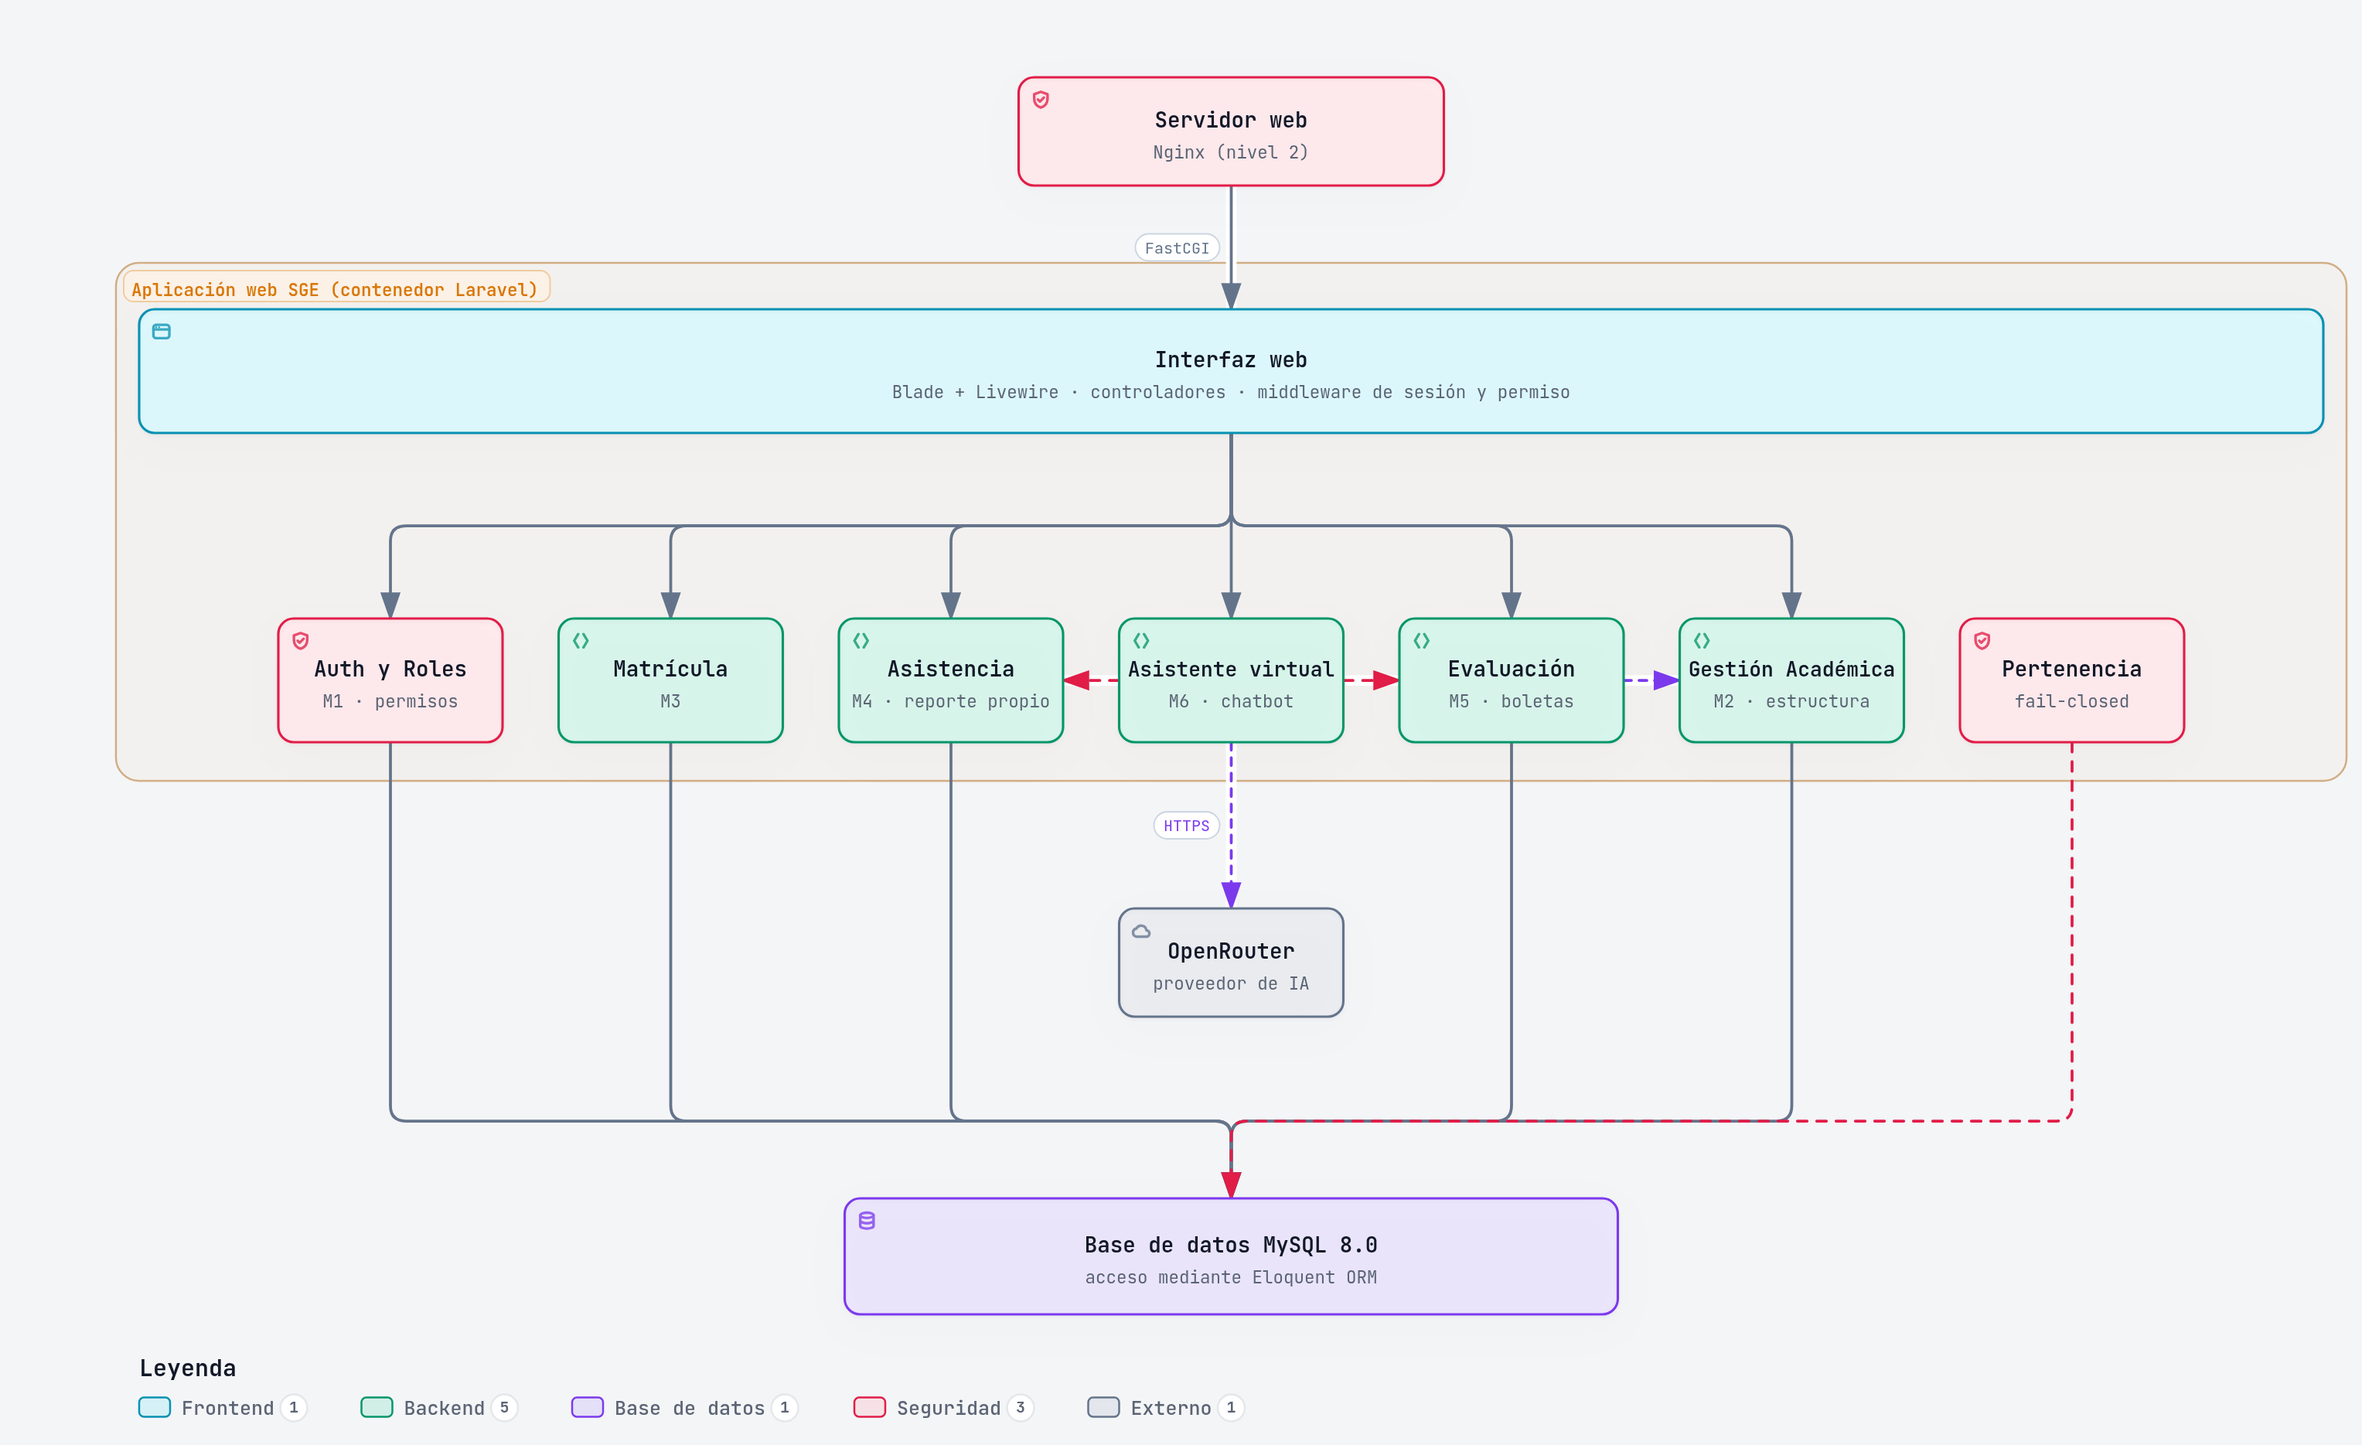
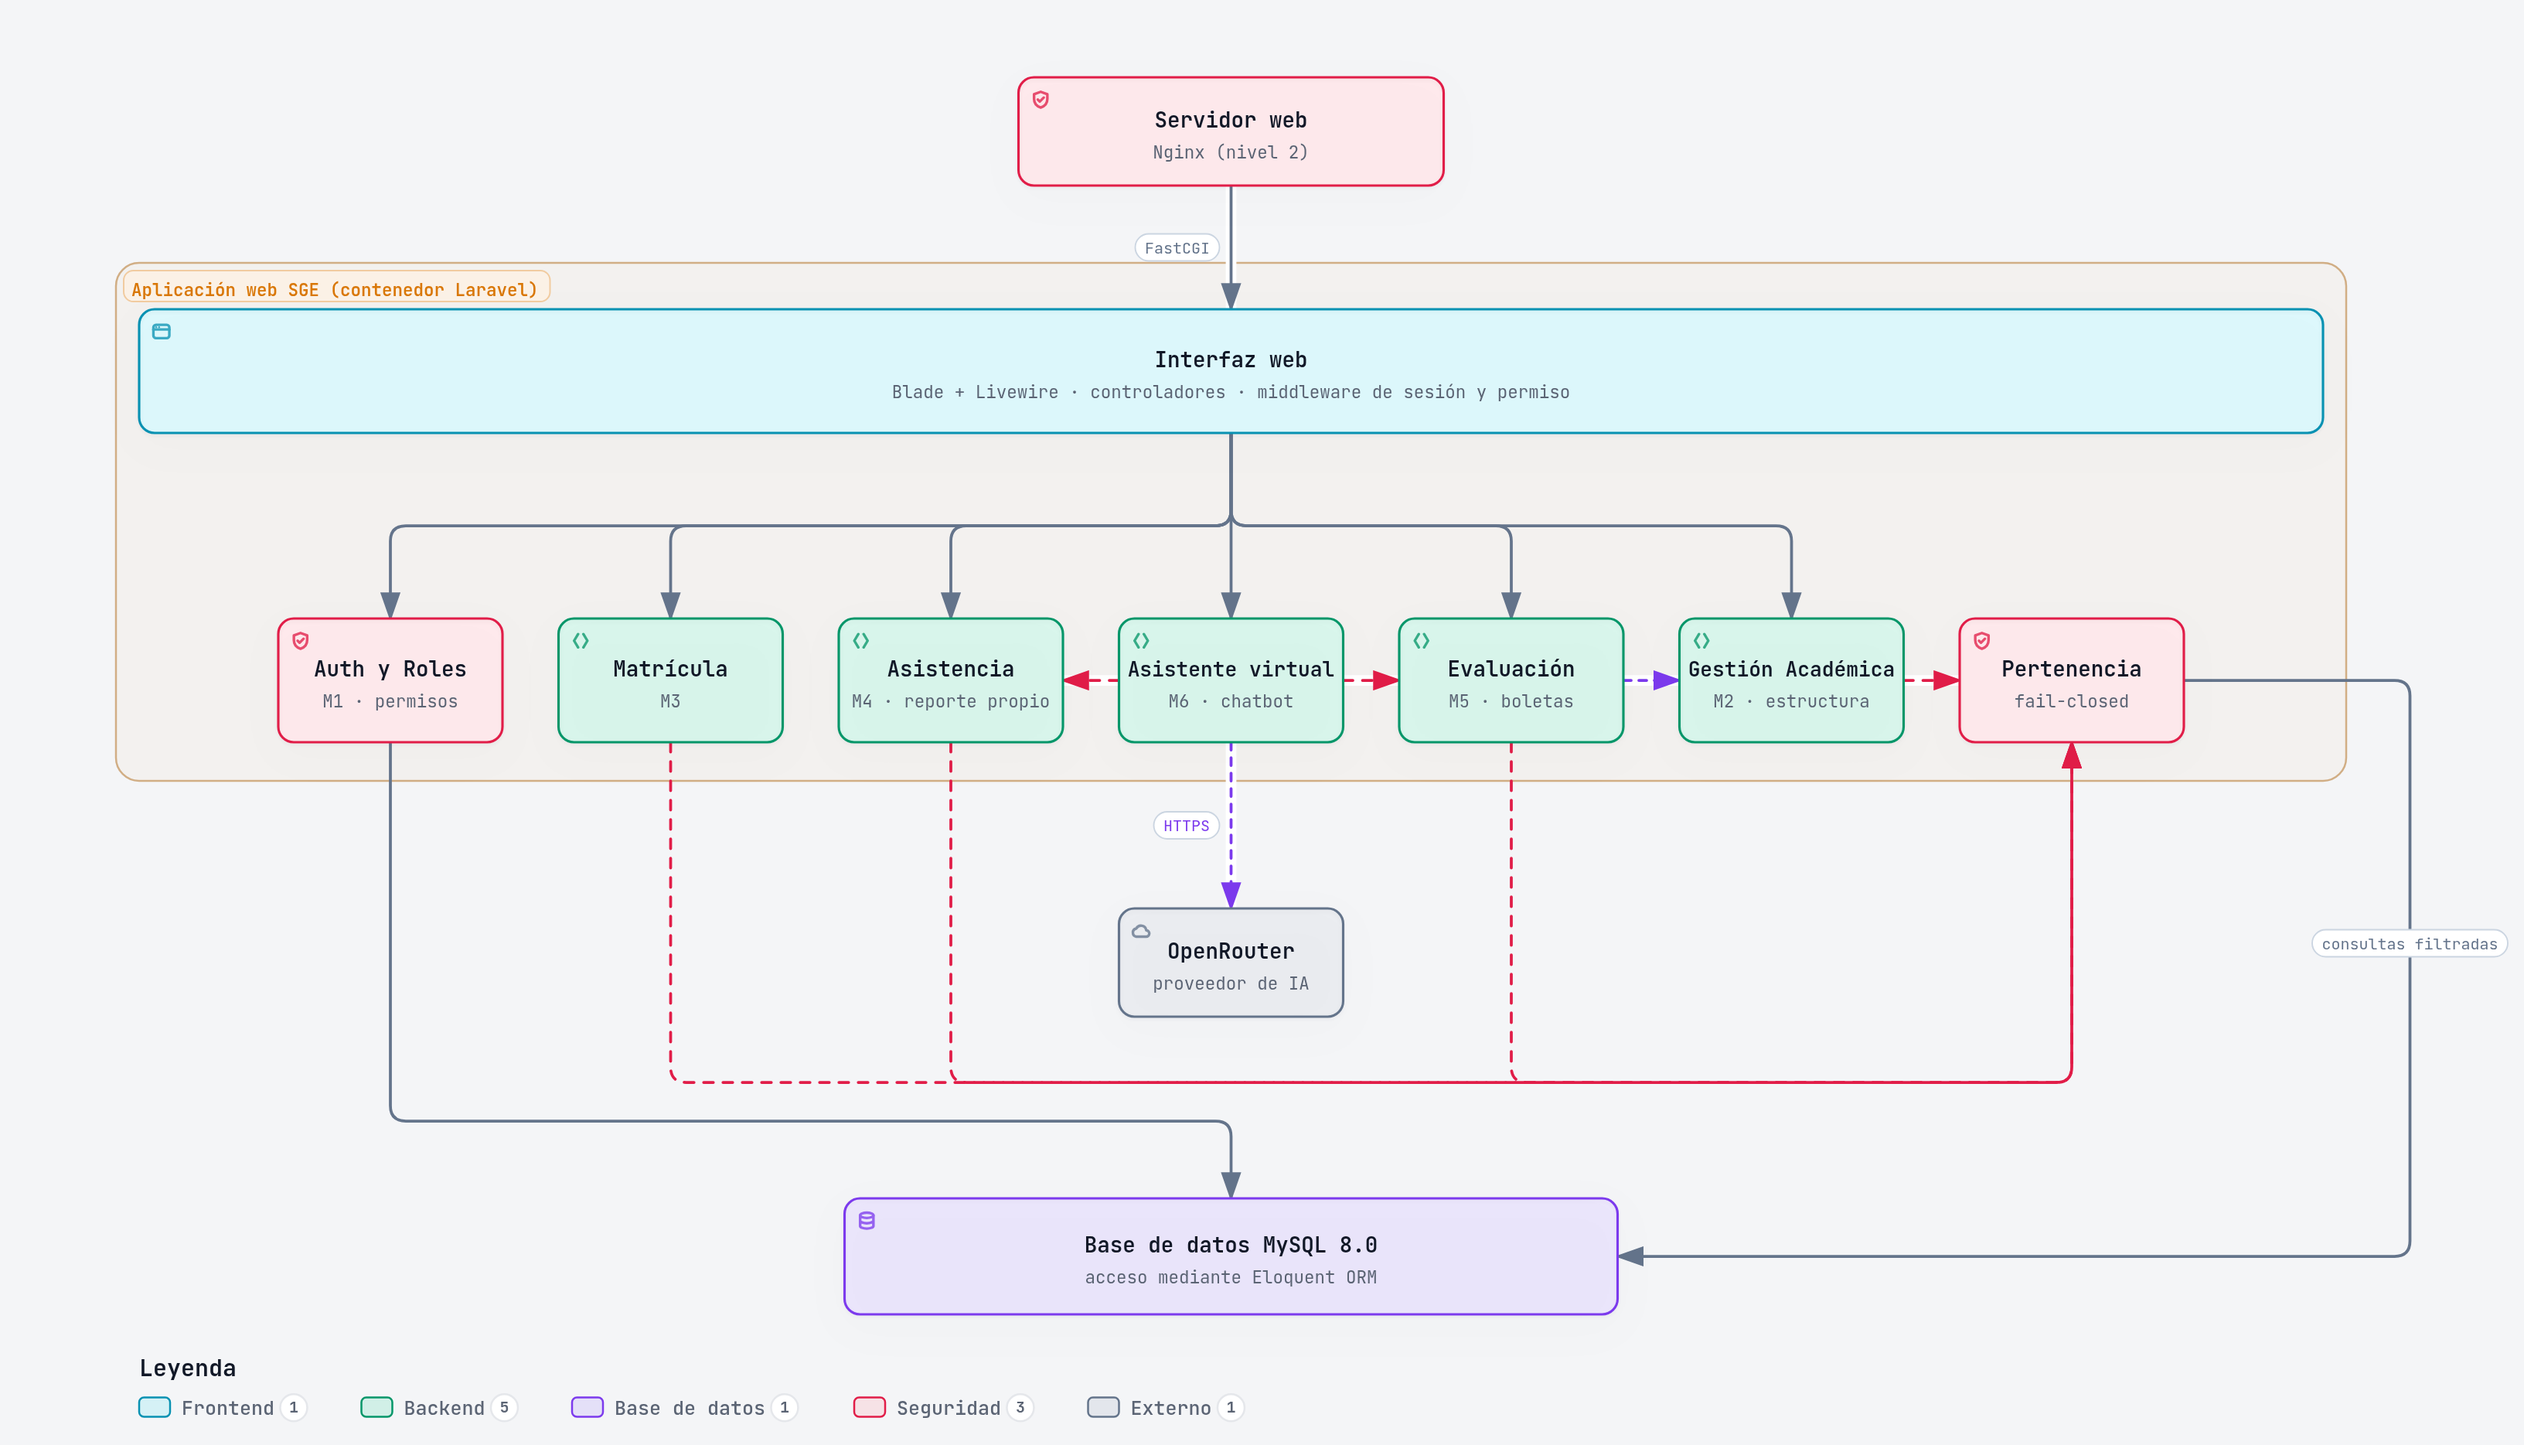
docs(arquitectura): nivel 3 muestra módulos → Pertenencia → MySQL, tal como está en el código

diff --git a/docs/img/fuentes/nivel3-componentes.html b/docs/img/fuentes/nivel3-componentes.html
@@ -5203,7 +5203,7 @@ OTHER DEALINGS IN THE FONT SOFTWARE.
     <!-- Main Diagram -->
     <div class="diagram-container" data-detail-level="read"
          data-preset-badge-editorial-plate="ARCHIFY / LÁMINA 04">
-      <svg viewBox="0 0 1222 728" role="img" lang="es" aria-labelledby="archify-diagram-title archify-diagram-description" data-animation="trace" data-preset="classic" data-quality-profile="showcase" data-node-ui="" data-reader-fit="intrinsic-height" data-reader-min-text="7.5" data-reader-primary-text="14">
+      <svg viewBox="0 0 1306 728" role="img" lang="es" aria-labelledby="archify-diagram-title archify-diagram-description" data-animation="trace" data-preset="classic" data-quality-profile="showcase" data-node-ui="" data-reader-fit="intrinsic-height" data-reader-min-text="7.5" data-reader-primary-text="14">
         <title id="archify-diagram-title">SGE — C4 Nivel 3: Componentes de la aplicación web</title>
         <desc id="archify-diagram-description">Un diagrama de arquitectura generado por Archify.</desc>
         <!-- Definitions -->
@@ -5275,16 +5275,19 @@ OTHER DEALINGS IN THE FONT SOFTWARE.
           <path data-graph-role="automatic-crossover-underlay" d="M 605 364 L 605 450" fill="none" stroke="var(--mask)" stroke-width="5.5" stroke-linecap="round" stroke-linejoin="round" pointer-events="none"/>
           <path data-edge-from="ia" data-edge-to="claude" data-edge-label="HTTPS" data-edge-key="9" data-edge-id="ia-claude" data-composition-points="605,364;605,450" data-composition-crossover="halo" data-composition-independent="true" d="M 605 364 L 605 450" class="a-dashed" data-animate="edge" style="--step:9" stroke-width="1.5" marker-end="url(#arrowhead-dashed)"/>
         </g>
-        <path data-edge-from="auth" data-edge-to="mysql" data-edge-key="10" data-edge-id="auth-mysql" data-composition-points="170,364;170,560;605,560;605,600" d="M 170 364 L 170 552 Q 170 560 178 560 L 597 560 Q 605 560 605 568 L 605 600" class="a-default" data-animate="edge" style="--step:10" stroke-width="1.5" marker-end="url(#arrowhead)"/>
-        <path data-edge-from="academica" data-edge-to="mysql" data-edge-key="11" data-edge-id="academica-mysql" data-composition-points="895,364;895,560;605,560;605,600" d="M 895 364 L 895 552 Q 895 560 887 560 L 613 560 Q 605 560 605 568 L 605 600" class="a-default" data-animate="edge" style="--step:11" stroke-width="1.5" marker-end="url(#arrowhead)"/>
-        <path data-edge-from="matricula" data-edge-to="mysql" data-edge-key="12" data-edge-id="matricula-mysql" data-composition-points="315,364;315,560;605,560;605,600" d="M 315 364 L 315 552 Q 315 560 323 560 L 597 560 Q 605 560 605 568 L 605 600" class="a-default" data-animate="edge" style="--step:12" stroke-width="1.5" marker-end="url(#arrowhead)"/>
-        <path data-edge-from="asistencia" data-edge-to="mysql" data-edge-key="13" data-edge-id="asistencia-mysql" data-composition-points="460,364;460,560;605,560;605,600" d="M 460 364 L 460 552 Q 460 560 468 560 L 597 560 Q 605 560 605 568 L 605 600" class="a-default" data-animate="edge" style="--step:12" stroke-width="1.5" marker-end="url(#arrowhead)"/>
-        <path data-edge-from="evaluacion" data-edge-to="mysql" data-edge-key="14" data-edge-id="evaluacion-mysql" data-composition-points="750,364;750,560;605,560;605,600" d="M 750 364 L 750 552 Q 750 560 742 560 L 613 560 Q 605 560 605 568 L 605 600" class="a-default" data-animate="edge" style="--step:12" stroke-width="1.5" marker-end="url(#arrowhead)"/>
-        <path data-edge-from="pertenencia" data-edge-to="mysql" data-edge-key="15" data-edge-id="pertenencia-mysql" data-composition-points="1040,364;1040,560;605,560;605,600" d="M 1040 364 L 1040 552 Q 1040 560 1032 560 L 613 560 Q 605 560 605 568 L 605 600" class="a-security" data-animate="edge" style="--step:12" stroke-width="1.5" marker-end="url(#arrowhead-security)"/>
-        <g data-graph-role="automatic-crossover" style="--step:16">
+        <g data-graph-role="automatic-crossover" style="--step:10">
           <path data-graph-role="automatic-crossover-underlay" d="M 808 332 L 837 332" fill="none" stroke="var(--mask)" stroke-width="5.5" stroke-linecap="round" stroke-linejoin="round" pointer-events="none"/>
-          <path data-edge-from="evaluacion" data-edge-to="academica" data-edge-key="16" data-edge-id="evaluacion-academica" data-composition-points="808,332;837,332" data-composition-crossover="halo" data-composition-independent="true" d="M 808 332 L 837 332" class="a-dashed" data-animate="edge" style="--step:12" stroke-width="1.5" marker-end="url(#arrowhead-dashed)"/>
+          <path data-edge-from="evaluacion" data-edge-to="academica" data-edge-key="10" data-edge-id="evaluacion-academica" data-composition-points="808,332;837,332" data-composition-crossover="halo" data-composition-independent="true" d="M 808 332 L 837 332" class="a-dashed" data-animate="edge" style="--step:10" stroke-width="1.5" marker-end="url(#arrowhead-dashed)"/>
         </g>
+        <g data-graph-role="automatic-crossover" style="--step:11">
+          <path data-graph-role="automatic-crossover-underlay" d="M 953 332 L 982 332" fill="none" stroke="var(--mask)" stroke-width="5.5" stroke-linecap="round" stroke-linejoin="round" pointer-events="none"/>
+          <path data-edge-from="academica" data-edge-to="pertenencia" data-edge-key="11" data-edge-id="academica-pertenencia" data-composition-points="953,332;982,332" data-composition-crossover="halo" data-composition-independent="true" d="M 953 332 L 982 332" class="a-security" data-animate="edge" style="--step:11" stroke-width="1.5" marker-end="url(#arrowhead-security)"/>
+        </g>
+        <path data-edge-from="matricula" data-edge-to="pertenencia" data-edge-key="12" data-edge-id="matricula-pertenencia" data-composition-points="315,364;315,540;1040,540;1040,364" d="M 315 364 L 315 532 Q 315 540 323 540 L 1032 540 Q 1040 540 1040 532 L 1040 364" class="a-security" data-animate="edge" style="--step:12" stroke-width="1.5" marker-end="url(#arrowhead-security)"/>
+        <path data-edge-from="asistencia" data-edge-to="pertenencia" data-edge-key="13" data-edge-id="asistencia-pertenencia" data-composition-points="460,364;460,540;1040,540;1040,364" d="M 460 364 L 460 532 Q 460 540 468 540 L 1032 540 Q 1040 540 1040 532 L 1040 364" class="a-security" data-animate="edge" style="--step:12" stroke-width="1.5" marker-end="url(#arrowhead-security)"/>
+        <path data-edge-from="evaluacion" data-edge-to="pertenencia" data-edge-key="14" data-edge-id="evaluacion-pertenencia" data-composition-points="750,364;750,540;1040,540;1040,364" d="M 750 364 L 750 532 Q 750 540 758 540 L 1032 540 Q 1040 540 1040 532 L 1040 364" class="a-security" data-animate="edge" style="--step:12" stroke-width="1.5" marker-end="url(#arrowhead-security)"/>
+        <path data-edge-from="pertenencia" data-edge-to="mysql" data-edge-label="consultas filtradas" data-edge-key="15" data-edge-id="pertenencia-mysql" data-composition-points="1098,332;1215,332;1215,630;805,630" d="M 1098 332 L 1207 332 Q 1215 332 1215 340 L 1215 622 Q 1215 630 1207 630 L 805 630" class="a-default" data-animate="edge" style="--step:12" stroke-width="1.5" marker-end="url(#arrowhead)"/>
+        <path data-edge-from="auth" data-edge-to="mysql" data-edge-key="16" data-edge-id="auth-mysql" data-composition-points="170,364;170,560;605,560;605,600" d="M 170 364 L 170 552 Q 170 560 178 560 L 597 560 Q 605 560 605 568 L 605 600" class="a-default" data-animate="edge" style="--step:12" stroke-width="1.5" marker-end="url(#arrowhead)"/>
 
         <!-- Components -->
         <g id="node-nginx" data-node-id="nginx" data-node-label="Servidor web" tabindex="0" role="button" aria-label="Enfocar Servidor web, Nginx (nivel 2), Componente de arquitectura" aria-pressed="false" data-node-kind="security" data-node-sublabel="Nginx (nivel 2)" data-node-context="Componente de arquitectura">
@@ -5394,7 +5397,7 @@ OTHER DEALINGS IN THE FONT SOFTWARE.
         <g id="node-mysql" data-node-id="mysql" data-node-label="Base de datos MySQL 8.0" tabindex="0" role="button" aria-label="Enfocar Base de datos MySQL 8.0, acceso mediante Eloquent ORM, Componente de arquitectura" aria-pressed="false" data-node-kind="database" data-node-sublabel="acceso mediante Eloquent ORM" data-node-context="Componente de arquitectura">
           <title>Base de datos MySQL 8.0 · acceso mediante Eloquent ORM · Componente de arquitectura</title>
           <rect x="405" y="600" width="400" height="60" rx="8" class="c-mask"/>
-          <rect x="405" y="600" width="400" height="60" rx="8" class="c-database" data-animate="node" style="--step:11" stroke-width="1.5"/>
+          <rect x="405" y="600" width="400" height="60" rx="8" class="c-database" data-animate="node" style="--step:12" stroke-width="1.5"/>
           <g aria-hidden="true" data-semantic-sigil="database" class="semantic-sigil s-database" transform="translate(411 606) scale(0.6875)">
             <ellipse cx="8" cy="4" rx="5" ry="2"/>
             <path d="M3 4v8c0 1.1 2.2 2 5 2s5-.9 5-2V4M3 8c0 1.1 2.2 2 5 2s5-.9 5-2"/>
@@ -5437,7 +5440,10 @@ OTHER DEALINGS IN THE FONT SOFTWARE.
 
 
 
-
+        <g data-detail="context" data-edge-from="pertenencia" data-edge-to="mysql" data-edge-label="consultas filtradas" data-edge-key="15" data-edge-id="pertenencia-mysql">
+          <rect x="1164.4" y="461" width="101.2" height="14" rx="3" class="c-mask"/>
+          <text x="1215" y="471" class="t-edge-default" font-size="8" text-anchor="middle">consultas filtradas</text>
+        </g>
 
 
         <!-- Boundary labels (foreground masks keep routes out of titles) -->
@@ -5665,7 +5671,7 @@ OTHER DEALINGS IN THE FONT SOFTWARE.
         </div>
         <ul>
           <li>Evaluación usa el año vigente, los periodos y las asignaciones de Gestión Académica (línea discontinua)</li>
-          <li>Los modelos con datos de alumnos declaran su regla de Pertenencia (ADR-011)</li>
+          <li>Matrícula, Gestión Académica, Asistencia y Evaluación tienen modelos con RequierePertenencia: sus consultas pasan por la regla (ADR-011)</li>
         </ul>
       </div>
 

diff --git a/docs/04-modelo-c4/Nivel3-Diagrama-de-Componentes.md b/docs/04-modelo-c4/Nivel3-Diagrama-de-Componentes.md
@@ -33,7 +33,9 @@ Descomponer el contenedor **app** en sus módulos y mostrar de quién depende ca
 | Origen | Destino | Motivo |
 |---|---|---|
 | Interfaz web | Todos los módulos | Cada pantalla invoca al servicio de su módulo |
-| Pertenencia | MySQL | Añade el filtro de pertenencia a las consultas de los modelos que usan `RequierePertenencia` (línea roja) |
+| Matrícula, Gestión Académica, Asistencia y Evaluación | Pertenencia | Sus modelos (`Alumno`, `Matricula`, `AsignacionDocente`, `Asistencia`, `CriterioEvaluacion`, `Nota`) usan el trait `RequierePertenencia` (líneas rojas) |
+| Pertenencia | MySQL | Añade el filtro de pertenencia a las consultas de esos modelos («consultas filtradas») |
+| Asistente virtual | Pertenencia | Indirecta: lee mediante `ConsultaNotas` y `ResumenAsistencia`, que aplican `visiblePara` |
 | Evaluación | Gestión Académica | Año vigente, periodos y asignaciones (línea discontinua) |
 | Asistente virtual | Evaluación (`ConsultaNotas`) y Asistencia (`ResumenAsistencia`) | Armar el contexto autorizado (líneas rojas) |
 | Asistente | OpenRouter | Mediante `ProveedorIA` |
